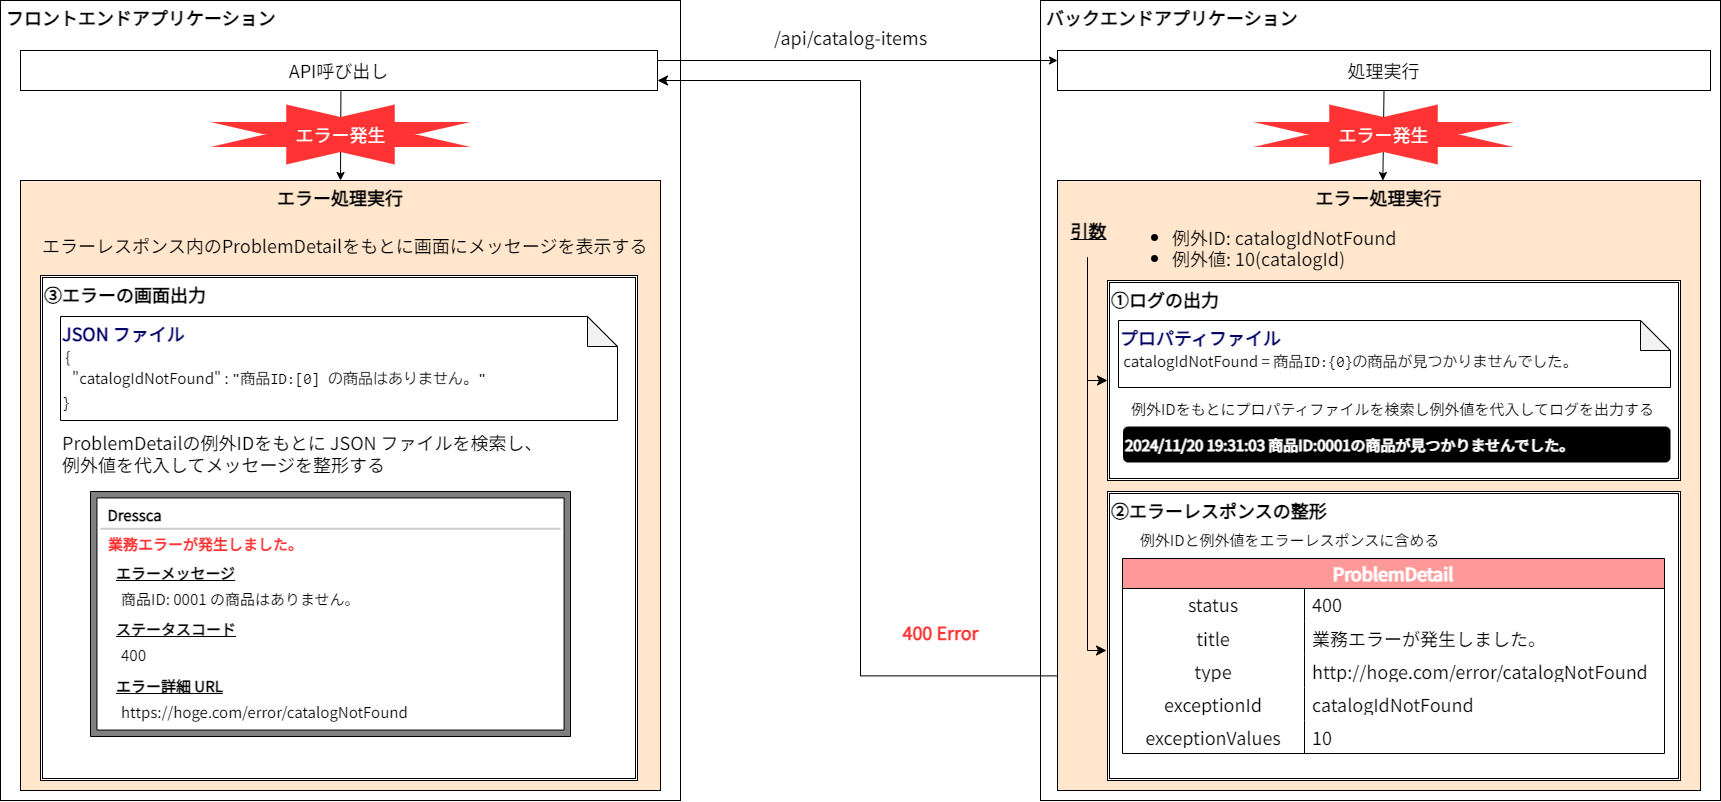
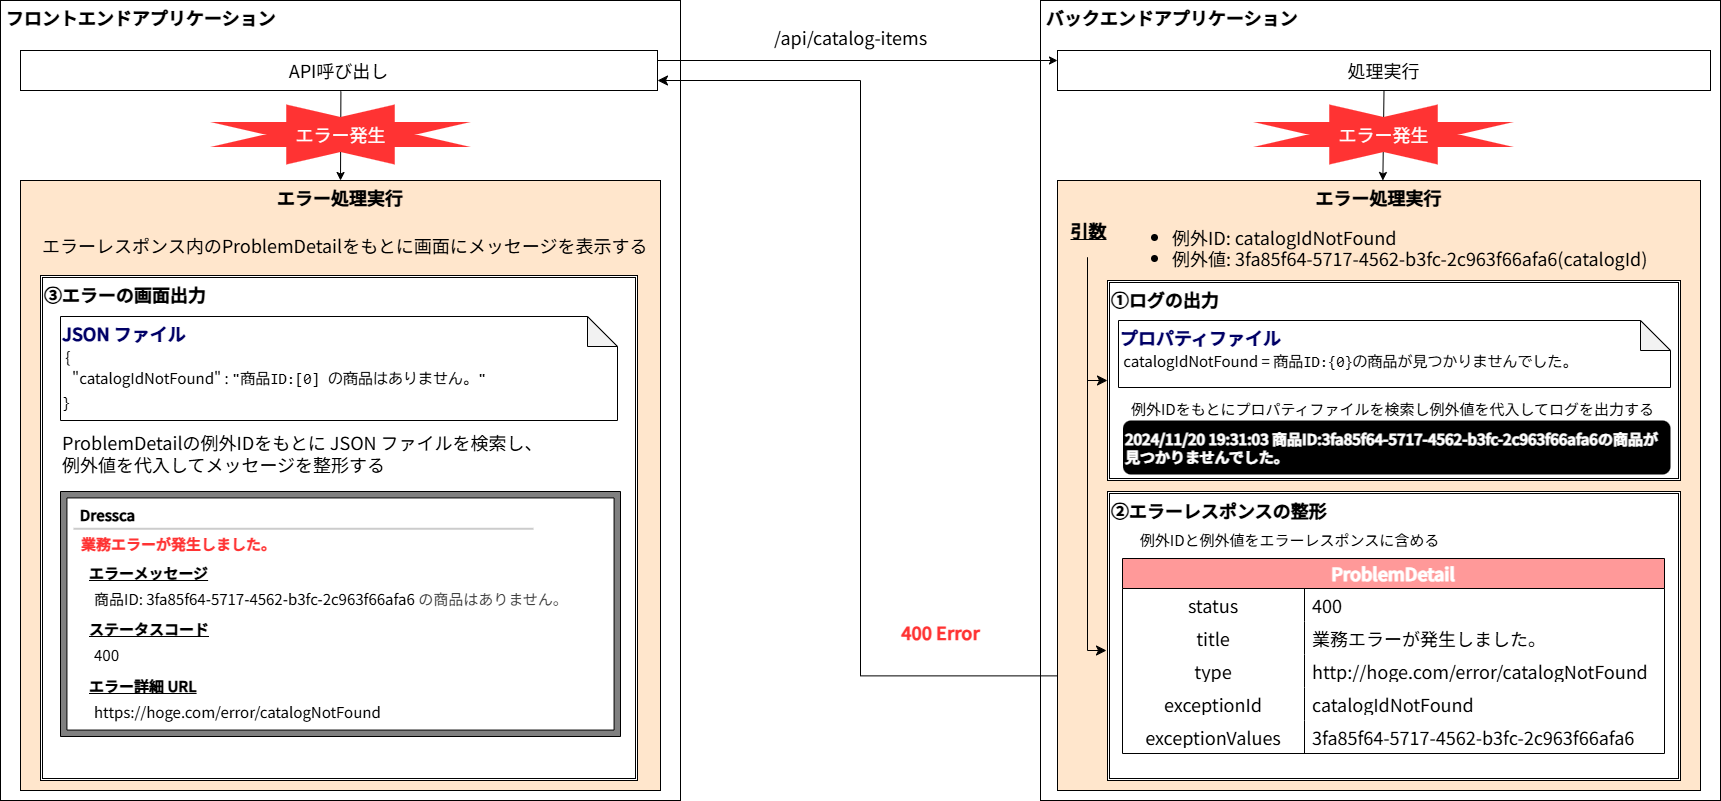
カタログアイテムと陳列品の分割のドキュメントへの影響に対応する (#5492)
* ドキュメントのコードブロックの書き方を --8<-- (snippets) 方式に変更

GitHub Flow への移行により main ブランチへのマージが本番リリース時のみになり、
GitHub の URL 参照方式では作業中のブランチの内容を確認できず不便だったため、
pymdown-extensions の Snippets 拡張（--8<--）でリポジトリ内のファイルを直接
埋め込む方式に変更する。あわせて、不要になった GitHub コード取得用の
mkdocs フックを削除する。

Closes #5480

* PRレビュー指摘を修正

Copilot のコードレビューで指摘された、コードブロックの言語指定ミス・
title 属性の欠落・全角スペース混入をあわせて修正する。

* コメントを修正

* カタログアイテムと陳列品の分割に伴うドキュメントの記載を修正する

例外処理方針の例外レスポンス例、メッセージ管理方針のフォルダー構成、Dressca の操作手順内の表記が、モジュラーモノリスアーキテクチャへの再構築（カタログアイテムと陳列品の分割）前の記載のままになっていたため、現行の実装に合わせて修正した。
あわせて、実体を伴わなくなった cspell:ignore の記載を削除した。

* 例外処理方針のエラーレスポンス例の ID を UUID 形式のサンプル値に修正する

買い物かごIDおよび陳列品IDは UUID 型であるにもかかわらず、エラーレスポンス例のサンプル値が "1" や "10" のような整数値になっていたため、実際の型に合わせて修正した。

* カタログアイテム編集手順の記載からアイテム ID の具体値の記載を削除する

カタログアイテムの ID は UUID 型であり "1" という値になり得ないにもかかわらず、操作手順に「アイテム ID が 1 のアイテム」という記載が残っていたため、ID を指定しない書き方に修正した。

* メッセージ管理方針に記載のIDを整数からUUIDに修正

diff --git a/documents/contents/app-architecture/client-side-rendering/global-function/exception-handling.md b/documents/contents/app-architecture/client-side-rendering/global-function/exception-handling.md
@@ -3,7 +3,7 @@ title: CSR 編
 description: クライアントサイドレンダリングを行う Web アプリケーションの アーキテクチャについて解説します。
 ---
 
-<!-- cspell:ignore applicationcore rgba -->
+<!-- cspell:ignore rgba -->
 
 # 例外処理方針 {#top}
 
@@ -154,12 +154,12 @@ HTTP/1.1 400 Bad Request
 Content-Type: application/problem+json; charset=utf-8
 
 {
-    "type": "https://hoge.com/error/catalogItemIdDoesNotExistInBasket",
+    "type": "https://hoge.com/error/displayItemIdDoesNotExistInBasket",
     "title": "業務エラーが発生しました。",
     "status": 400,
-    "detail": "dressca.applicationcore.baskets.CatalogItemInBasketNotFoundException: 業務エラーが発生しました。 ###以下スタックトレースは省略###",
-    "exceptionId": "catalogItemIdDoesNotExistInBasket",
-    "exceptionValues": ["1 ###買い物かごID###", "10 ###商品ID###"]
+    "detail": "com.dressca.applicationmodules.shopping.exception.DisplayItemInBasketNotFoundException: 業務エラーが発生しました。 ###以下スタックトレースは省略###",
+    "exceptionId": "displayItemIdDoesNotExistInBasket",
+    "exceptionValues": ["3fa85f64-5717-4562-b3fc-2c963f66afa6 ###買い物かごID###", "9b1deb4d-3b7d-4bad-9bdd-2b0d7b3dcb6d ###陳列品ID###"]
 }
 ```
 
@@ -168,10 +168,10 @@ HTTP/1.1 400 Bad Request
 Content-Type: application/problem+json; charset=utf-8
 
 {
-    "type": "https://hoge.com/error/catalogItemIdDoesNotExistInBasket",
+    "type": "https://hoge.com/error/displayItemIdDoesNotExistInBasket",
     "title": "業務エラーが発生しました。",
     "status": 400,
-    "exceptionId": "catalogItemIdDoesNotExistInBasket",
-    "exceptionValues": ["1 ###買い物かごID###", "10 ###商品ID###"]
+    "exceptionId": "displayItemIdDoesNotExistInBasket",
+    "exceptionValues": ["3fa85f64-5717-4562-b3fc-2c963f66afa6 ###買い物かごID###", "9b1deb4d-3b7d-4bad-9bdd-2b0d7b3dcb6d ###陳列品ID###"]
 }
 ```

diff --git a/documents/contents/app-architecture/overview/java-application-processing-system/message-management-policy.md b/documents/contents/app-architecture/overview/java-application-processing-system/message-management-policy.md
@@ -3,7 +3,7 @@ title: Java アプリケーションの 処理方式
 description: アプリケーションの形態によらず、 Java アプリケーションで 考慮すべき関心事について、実装方針を説明します。
 ---
 
-<!-- cspell:ignore applicationcore systemcommon -->
+<!-- cspell:ignore systemcommon -->
 
 # メッセージ管理方針 {#top}
 
